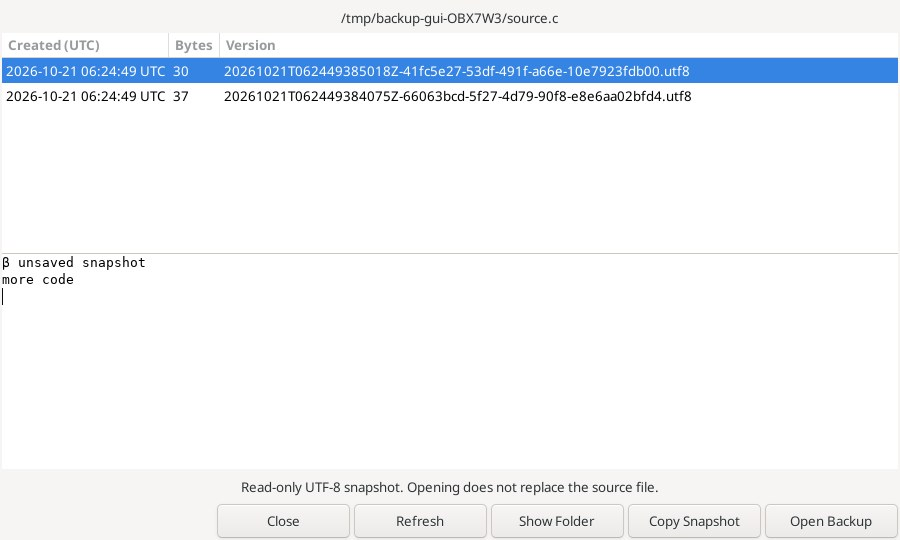
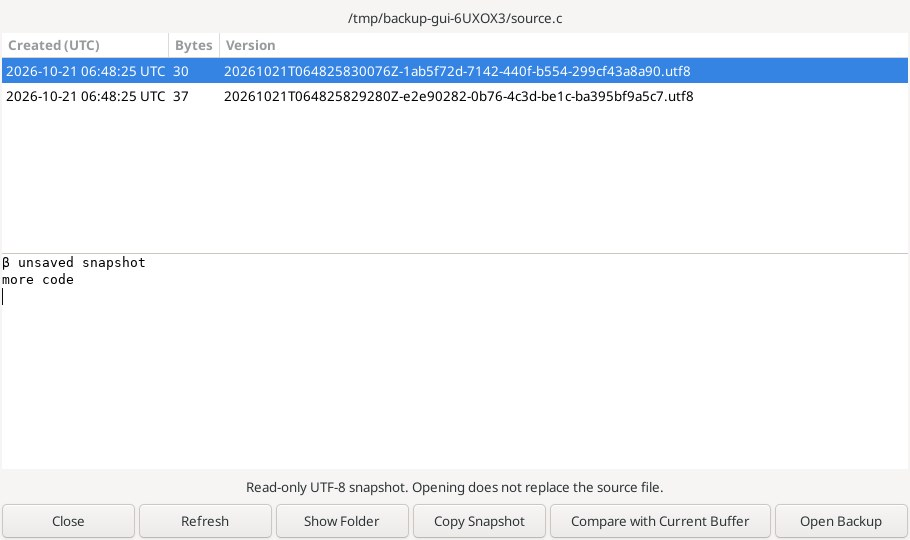
docs: add bilingual snapshot comparison guides translations and native captures

diff --git a/insight/docs/ru/snapshot-comparison.md b/insight/docs/ru/snapshot-comparison.md
@@ -1,0 +1,23 @@
+# Сравнение снимков
+
+**Файл → Сравнить с резервной версией…** позволяет выбрать сохранённую версию и сравнить её с исходным буфером, включая ещё не записанные правки. В окне резервных версий есть и кнопка **Сравнить с текущим буфером**. При запуске сравнения исходный документ должен ещё существовать под показанным именем. Сведения о выбранной резервной версии повторно проверяются перед чтением.
+
+Дополнительные команды меню «Файл»: **Сравнить текущий буфер с диском** и **Сравнить текущий буфер с исходным**. Для диска нужен обычный файл UTF-8; один файловый BOM удаляется при чтении, другие кодировки не преобразуются. Исходное содержимое — декодированный снимок при открытии либо новая исходная точка после [Checkpoint](checkpoint.md). Обычный Save этот снимок не заменяет. Три команды доступны в браузере команд и настройках клавиш редактора, без сочетаний по умолчанию.
+
+![Настоящее окно сравнения GTK-редактора](../media/snapshot-comparison.jpg)
+
+В окне две текстовые панели только для чтения и список вставленных, удалённых и изменённых блоков строк. Слева — резервная, дисковая или исходная версия; справа — снимок буфера. Заголовки указывают версии. Выбранный блок выделяет оба диапазона и прокручивает панели. На пустой стороне вставки/удаления показана нулевая по ширине **граница**. Номера логических строк начинаются с единицы, CRLF считается одним переводом строки. **Предыдущее различие** и **Следующее различие** останавливаются у края списка.
+
+**Копировать отчёт о различиях** копирует весь показанный список блоков в TSV: английская строка заголовков, локализованные названия строк, не более 1 МиБ. В отчёте диапазоны, а не полный текст исходников. При пустом списке кнопка недоступна. В самих панелях можно обычным способом выделять и копировать текст.
+
+**Игнорировать пробелы и табуляцию** и **Игнорировать стиль перевода строк** действуют независимо, через существующее ядро сравнения. Регистр учитывается; отсутствие завершающего перевода строки остаётся различием. Изменение опций сразу очищает список и подсветку. Для пересчёта нажмите **Сравнить**. Пустой список означает отсутствие различий при выбранных опциях, а не обязательно побайтовое равенство.
+
+![Сравнение захваченных снимков](../media/snapshot-comparison.svg)
+
+Сравнение выполняется над собственными копиями текста в фоновом задании с отменой. Повторная кнопка **Сравнить** использует те же захваченные данные, не перечитывая изменённый исходник или резервную версию. Для нового состояния закройте окно и снова вызовите команду. Текст, выделение, Undo/Redo, исходный снимок и диск не меняются. В этом окне нет слияния, применения или сохранения результата; для слияния есть отдельное [окно Diff / Merge](internal-diff.md).
+
+Обеим сторонам нужен корректный UTF-8 без NUL, не более 1 МиБ. Двустороннее построчное сравнение ограничено 4 миллионами ячеек LCS. Недоступные, некорректные и слишком большие снимки не открывают окно. Превышение объёма работы и отмена очищают результаты и показывают статус. Закрытие работающего окна отменяет задание и исключает позднее обновление уничтоженных виджетов. Данные и опции не сохраняются между окнами и перезапусками редактора. Слежения за правками и перехода обратно в живой исходник нет.
+
+На Linux проверяются три команды меню и клавиш, выбор/отмена резервной версии и закрытый исходник, неизменность снимков, диапазоны смешанных EOL, переходы и отчёт, сохранность исходного текста/выделения/Undo/диска, режим только для чтения, различие обычного сохранения и исходной точки, опции, регистр, ограничения размера/NUL/объёма работы, отмена и уничтожение окна. Скриншот получен из настоящего окна тестом под Xvfb. Windows и Android не запускались.
+
+Основа Source Insight: [Compare with Backup File](https://www.sourceinsight.com/doc/v4/userguide/Manual/Command_Reference/Compare_with_Backup_File.htm). Команды сравнения с диском/исходным и отдельное окно снимков только для чтения — расширения Geany Insight. См. [Резервные версии](backup-versions.md).

diff --git a/insight/docs/en/snapshot-comparison.md b/insight/docs/en/snapshot-comparison.md
@@ -1,0 +1,23 @@
+# Compare snapshots
+
+**File → Compare with Backup File…** selects a saved version and compares it with the source buffer, including unsaved edits. The backup browser also offers **Compare with Current Buffer**. The source document must still exist under the displayed filename when comparison is requested. The selected backup's listed identity is checked again before reading.
+
+Two companion commands are available in File: **Compare Current Buffer with Disk** and **Compare Current Buffer with Original**. Disk reads a regular UTF-8 file and strips one file BOM; it does not convert other disk encodings. Original uses the decoded opening snapshot, or the replacement baseline established by [Checkpoint](checkpoint.md). Normal Save does not replace that original. All three have initially unassigned Editor keybindings and appear in the command browser.
+
+![Snapshot comparison in the running GTK editor](../media/snapshot-comparison.jpg)
+
+The new window contains two read-only text panes and a list of inserted, deleted and changed line blocks. Left is the selected backup, disk or original snapshot; Right is the captured buffer. Headers identify the snapshots. Selected blocks highlight both ranges and scroll the panes; insertion/deletion rows identify a zero-width **anchor** on the empty side. Line numbers are one-based logical lines, with CRLF counted as one break. **Previous difference** and **Next difference** stop at the ends of the list.
+
+**Copy difference report** copies the entire displayed block list as TSV (English column header, localized row labels, 1 MiB maximum). This reports line ranges; it does not copy the complete source text. It is disabled when no differences are listed. The read-only panes allow ordinary text selection and copying.
+
+**Ignore spaces and tabs** and **Ignore line ending style** apply independently, using the existing comparison core. Case remains significant; a missing final terminator remains different. Changing options clears the list and highlights immediately. Press **Compare** to rebuild them. Empty results mean no differences under those options, not necessarily byte-identical text.
+
+![Captured snapshot comparison workflow](../media/snapshot-comparison.svg)
+
+Comparisons use owned text copies and run in a cancellable worker. **Compare** recalculates those same captured inputs; it does not reload a changed source or backup. Close the window and invoke the command again to capture newer versions. Source edits, selection, Undo/Redo, original baseline and disk are unaffected. There is no merge/apply/save action in this window. Use the separate [Diff / Merge window](internal-diff.md) for a merge result.
+
+Both inputs require valid UTF-8 without NUL, up to 1 MiB per side. Two-sided line comparisons retain the existing 4 million LCS-cell work limit. Oversized, unavailable or invalid snapshots do not open a comparison. Work-limit and cancellation errors clear results and report status; closing a running window cancels its task and prevents late UI publication. Options and captured texts are not persisted across windows or editor restarts. The window does not track source edits or navigate back into the live source.
+
+Linux validation covers all three menu/key commands, backup selection/cancel and closed-source rejection, immutable pane text, mixed-EOL ranges, navigation/report, unchanged source text/selection/Undo/disk, read-only sources, save-versus-original semantics, ignore options, case sensitivity, size/NUL/work limits, cancellation and window destruction. The JPEG is a real production window captured by the native test under Xvfb. Windows and Android were not run.
+
+Source Insight reference: [Compare with Backup File](https://www.sourceinsight.com/doc/v4/userguide/Manual/Command_Reference/Compare_with_Backup_File.htm). Disk/original companion commands and this independent read-only snapshot window are extensions specific to Geany Insight. See [Backup versions](backup-versions.md).

diff --git a/insight/docs/snapshot-comparison.md b/insight/docs/snapshot-comparison.md
@@ -1,0 +1,23 @@
+# Compare snapshots
+
+**File → Compare with Backup File…** selects a saved version and compares it with the source buffer, including unsaved edits. The backup browser also offers **Compare with Current Buffer**. The source document must still exist under the displayed filename when comparison is requested. The selected backup's listed identity is checked again before reading.
+
+Two companion commands are available in File: **Compare Current Buffer with Disk** and **Compare Current Buffer with Original**. Disk reads a regular UTF-8 file and strips one file BOM; it does not convert other disk encodings. Original uses the decoded opening snapshot, or the replacement baseline established by [Checkpoint](checkpoint.md). Normal Save does not replace that original. All three have initially unassigned Editor keybindings and appear in the command browser.
+
+![Snapshot comparison in the running GTK editor](media/snapshot-comparison.jpg)
+
+The new window contains two read-only text panes and a list of inserted, deleted and changed line blocks. Left is the selected backup, disk or original snapshot; Right is the captured buffer. Headers identify the snapshots. Selected blocks highlight both ranges and scroll the panes; insertion/deletion rows identify a zero-width **anchor** on the empty side. Line numbers are one-based logical lines, with CRLF counted as one break. **Previous difference** and **Next difference** stop at the ends of the list.
+
+**Copy difference report** copies the entire displayed block list as TSV (English column header, localized row labels, 1 MiB maximum). This reports line ranges; it does not copy the complete source text. It is disabled when no differences are listed. The read-only panes allow ordinary text selection and copying.
+
+**Ignore spaces and tabs** and **Ignore line ending style** apply independently, using the existing comparison core. Case remains significant; a missing final terminator remains different. Changing options clears the list and highlights immediately. Press **Compare** to rebuild them. Empty results mean no differences under those options, not necessarily byte-identical text.
+
+![Captured snapshot comparison workflow](media/snapshot-comparison.svg)
+
+Comparisons use owned text copies and run in a cancellable worker. **Compare** recalculates those same captured inputs; it does not reload a changed source or backup. Close the window and invoke the command again to capture newer versions. Source edits, selection, Undo/Redo, original baseline and disk are unaffected. There is no merge/apply/save action in this window. Use the separate [Diff / Merge window](internal-diff.md) for a merge result.
+
+Both inputs require valid UTF-8 without NUL, up to 1 MiB per side. Two-sided line comparisons retain the existing 4 million LCS-cell work limit. Oversized, unavailable or invalid snapshots do not open a comparison. Work-limit and cancellation errors clear results and report status; closing a running window cancels its task and prevents late UI publication. Options and captured texts are not persisted across windows or editor restarts. The window does not track source edits or navigate back into the live source.
+
+Linux validation covers all three menu/key commands, backup selection/cancel and closed-source rejection, immutable pane text, mixed-EOL ranges, navigation/report, unchanged source text/selection/Undo/disk, read-only sources, save-versus-original semantics, ignore options, case sensitivity, size/NUL/work limits, cancellation and window destruction. The JPEG is a real production window captured by the native test under Xvfb. Windows and Android were not run.
+
+Source Insight reference: [Compare with Backup File](https://www.sourceinsight.com/doc/v4/userguide/Manual/Command_Reference/Compare_with_Backup_File.htm). Disk/original companion commands and this independent read-only snapshot window are extensions specific to Geany Insight. See [Backup versions](backup-versions.md).

diff --git a/insight/docs/source-insight-parity.md b/insight/docs/source-insight-parity.md
@@ -699,3 +699,7 @@ File-menu commands and two appended, initially unassigned Editor shortcuts save 
 ## Manual backup versions
 
 File → Save New Backup File captures the unsaved UTF-8 buffer without saving or changing its disk file, filename, selection, dirty state or Undo. Open Backup File provides newest-first UTC/byte/version rows, a bounded preview, full Copy Snapshot, Refresh, Show Folder and detached read-only Open Backup. Three appended Editor keybindings start unassigned. Per-source lexical canonical paths hash into configuration-directory storage; equal basenames remain separate. Exclusive private temporary writes publish via no-overwrite moves; reads validate size/etag/file identity and UTF-8, reject symbolic links/nonregular files, and preserve exact EOL and literal U+FEFF. Limits: 8 MiB/version, 200 versions and 64 MiB/source, 1000 scanned entries. No automatic backup-on-save, pruning, original-encoding/BOM metadata, filesystem lock or cross-process quota guarantee. Linux native/storage regression and real GTK capture; Windows/Android not run. See [Backup versions](backup-versions.md).
+
+## Snapshot comparisons and Compare with Backup File
+
+File → Compare with Backup File reuses the guarded version picker; Open Backup File also offers Compare with Current Buffer. Two companion commands compare the current decoded buffer with a regular UTF-8 disk file or retained Original Contents (Checkpoint-aware). Three appended Editor bindings start unassigned. A separate read-only window owns both text snapshots, computes cancellable exact/ignore-space/ignore-EOL line diffs, shows highlighted panes and changed/inserted/deleted ranges, navigates bounded rows and copies a 1 MiB TSV report. Dirty options clear rows; Compare recomputes captured inputs without rereading live sources. Limits: 1 MiB UTF-8/no-NUL per side and 4 million two-sided LCS cells. No merge/apply/save, live source tracking, source navigation or settings persistence. Source disk/text/selection/Undo and baseline stay intact. Disk decoding supports UTF-8 only; Original uses the decoded opening/checkpoint baseline. Linux native fixture covers all commands, paths/options/guards and destruction; Windows/Android not run. See [Snapshot comparison](snapshot-comparison.md).

diff --git a/insight/docs/ru/backup-versions.md b/insight/docs/ru/backup-versions.md
@@ -9,6 +9,7 @@
 - **Открыть копию** — полный снимок в отдельной вкладке только для чтения. Исходник не заменяется и не сохраняется. Нужный текст можно явно скопировать или экспортировать командой «Сохранить копию».
 - **Копировать снимок** — скопировать полную выбранную версию, включая текст за пределами предпросмотра.
 - **Обновить** — заново прочитать список и выбрать новую версию. Изменённый или удалённый после показа файл нельзя открыть по старым сведениям.
+- **Сравнить с текущим буфером** — [сравнить снимки только для чтения](snapshot-comparison.md), включая несохранённый текст исходника (до 1 МиБ на сторону). Команда «Файл → Сравнить с резервной версией» сразу открывает выбор версии для сравнения.
 - **Показать папку** — открыть папку версий этого исходника в системном файловом менеджере. Просмотр пустой истории сам папку не создаёт.
 - **Закрыть** — действие диалога по умолчанию.
 

diff --git a/insight/docs/backup-versions.md b/insight/docs/backup-versions.md
@@ -9,6 +9,7 @@
 - **Open Backup** opens the complete snapshot in a detached, read-only editor tab. It does not replace or save the source. To use its text, copy it explicitly or export it with Save a Copy.
 - **Copy Snapshot** copies the complete selected version, including text beyond the preview.
 - **Refresh** rereads the list and selects the newest version. A missing or changed selected file cannot be opened with its old listed identity.
+- **Compare with Current Buffer** opens a [read-only snapshot comparison](snapshot-comparison.md) against the source buffer, including unsaved text (1 MiB/side). File → Compare with Backup File opens this picker directly for comparison.
 - **Show Folder** opens this source's backup folder in the system file manager. Before the first snapshot, no folder is created just by browsing.
 - **Close** is the default dialog response.
 

diff --git a/insight/docs/en/backup-versions.md b/insight/docs/en/backup-versions.md
@@ -9,6 +9,7 @@
 - **Open Backup** opens the complete snapshot in a detached, read-only editor tab. It does not replace or save the source. To use its text, copy it explicitly or export it with Save a Copy.
 - **Copy Snapshot** copies the complete selected version, including text beyond the preview.
 - **Refresh** rereads the list and selects the newest version. A missing or changed selected file cannot be opened with its old listed identity.
+- **Compare with Current Buffer** opens a [read-only snapshot comparison](snapshot-comparison.md) against the source buffer, including unsaved text (1 MiB/side). File → Compare with Backup File opens this picker directly for comparison.
 - **Show Folder** opens this source's backup folder in the system file manager. Before the first snapshot, no folder is created just by browsing.
 - **Close** is the default dialog response.
 
